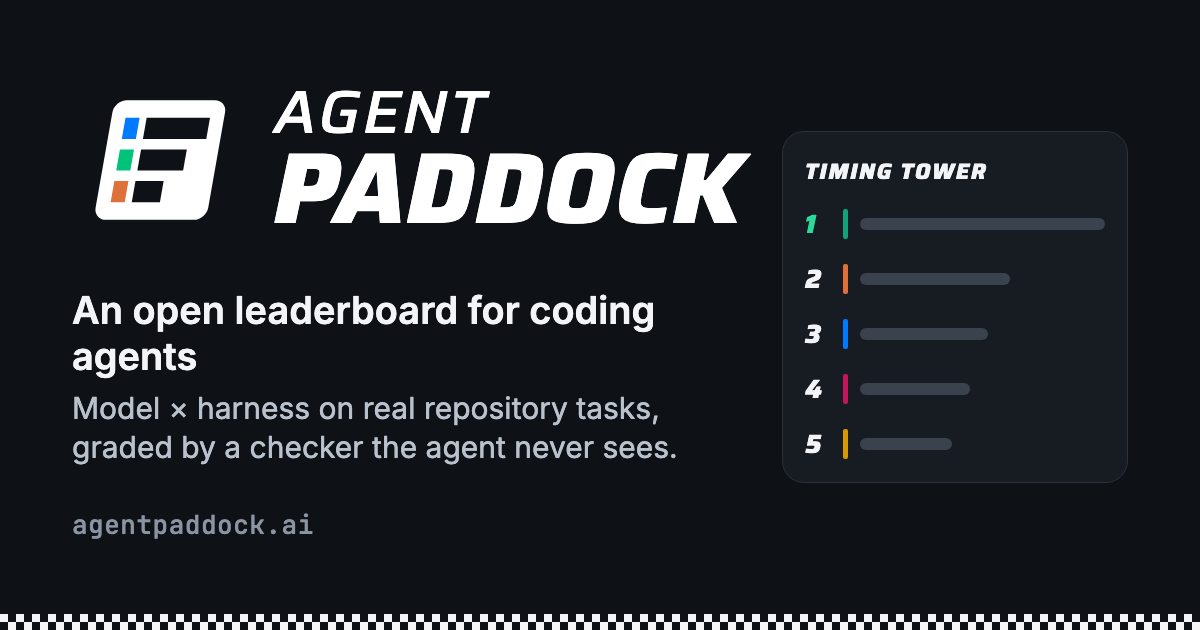
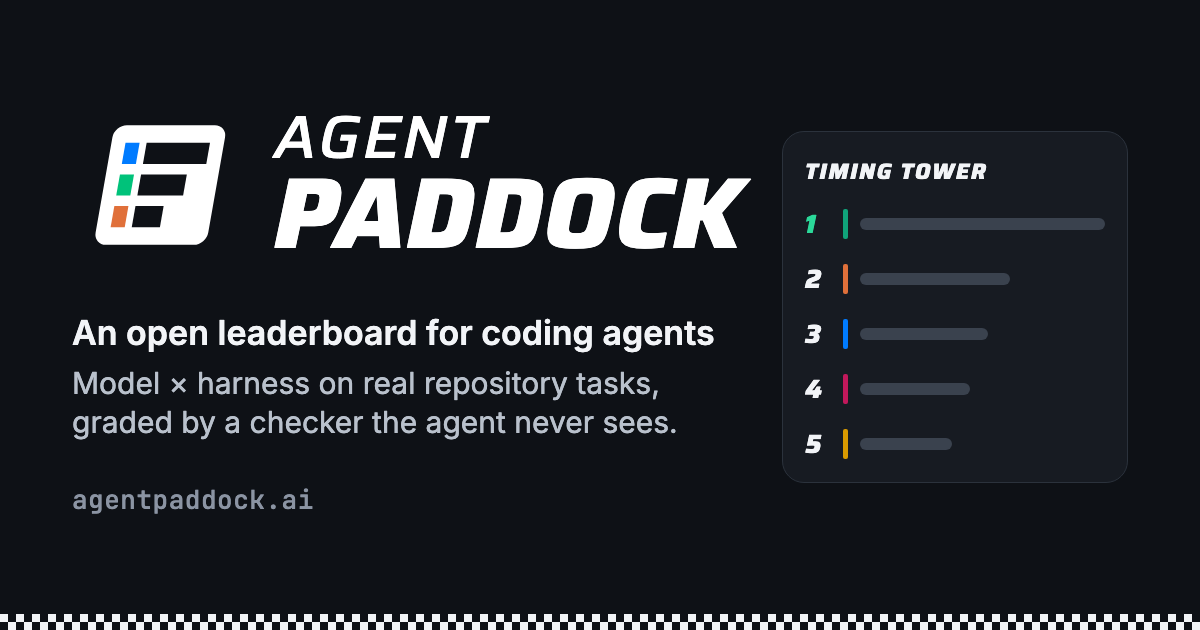
PDKSOCIAL-02: Fit the share card headline on one line
Set the headline to 34px (was 38px) in scripts/social_card.html so
"An open leaderboard for coding agents" fits the left column at
1200 x 630, and re-render scripts/social-card.png with the new source
SHA. The tower panel and the rest of the layout are unchanged.

Spec: none

Worker-Class: claude-code-corp

diff --git a/scripts/social_card.html b/scripts/social_card.html
@@ -30,7 +30,7 @@ html, body { margin: 0; background: #0E1116; }
 .wordmark-agent { font-weight: 500; font-size: 60px; letter-spacing: .04em; }
 .wordmark-name { font-weight: 800; font-size: 100px; letter-spacing: .01em; }
 .pitch { display: flex; flex-direction: column; gap: 10px; }
-.pitch-head { font-size: 38px; font-weight: 600; line-height: 1.2; color: #F2F4F7; }
+.pitch-head { font-size: 34px; font-weight: 600; line-height: 1.2; color: #F2F4F7; }
 .pitch-sub { font-size: 30px; font-weight: 400; line-height: 1.3; color: #B9C1CC; }
 .url {
   font-family: "JetBrains Mono", monospace; font-size: 26px; font-weight: 500;
